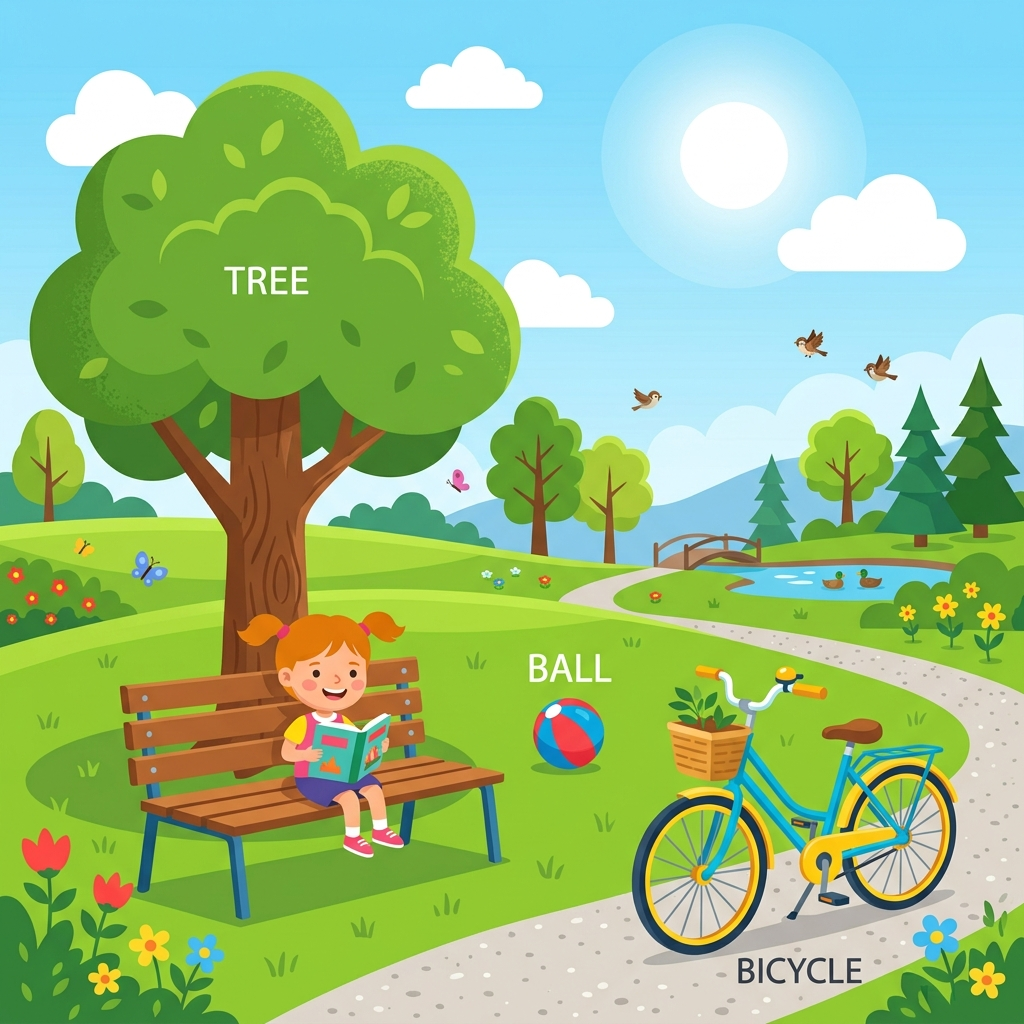
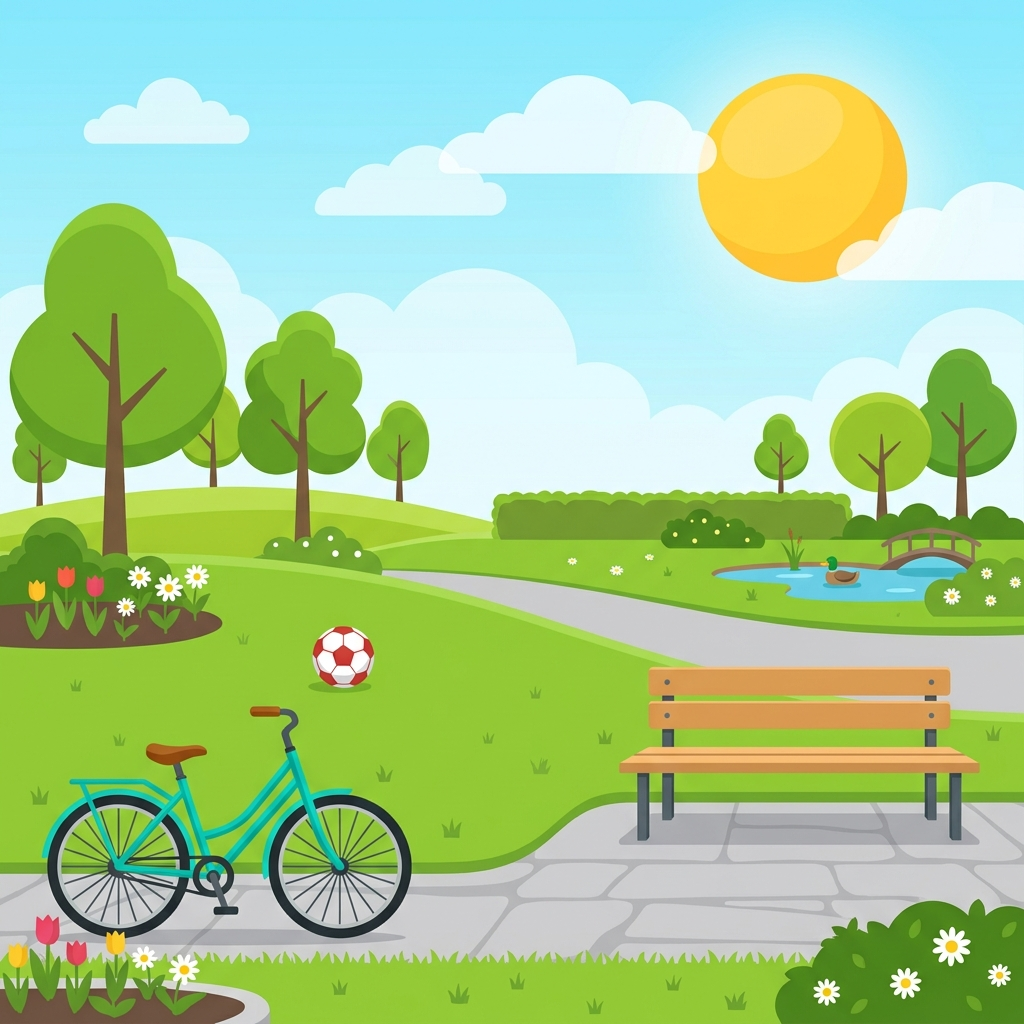
fix: regenerate park image without text and shrink hitboxes on supermarket level

diff --git a/src/features/game/data/levels.js b/src/features/game/data/levels.js
@@ -89,10 +89,10 @@ export const levels = [
     difficulty: "hard",
     image: "/images/levels/supermarket/supermarket.png",
     objects: [
-      { id: "cart", word: "CART", translation: "carrito", top: 75, left: 50, width: 25, height: 30 },
-      { id: "apple", word: "APPLE", translation: "manzana", top: 55, left: 30, width: 10, height: 10 },
-      { id: "bread", word: "BREAD", translation: "pan", top: 55, left: 70, width: 15, height: 12 },
-      { id: "milk", word: "MILK", translation: "leche", top: 35, left: 70, width: 10, height: 15 }
+      { id: "cart", word: "CART", translation: "carrito", top: 75, left: 50, width: 12, height: 12 },
+      { id: "apple", word: "APPLE", translation: "manzana", top: 55, left: 30, width: 8, height: 8 },
+      { id: "bread", word: "BREAD", translation: "pan", top: 55, left: 70, width: 8, height: 8 },
+      { id: "milk", word: "MILK", translation: "leche", top: 35, left: 70, width: 8, height: 8 }
     ]
   },
   {
